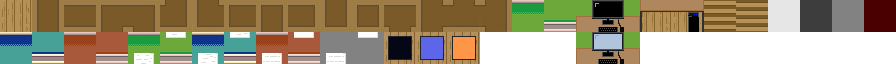
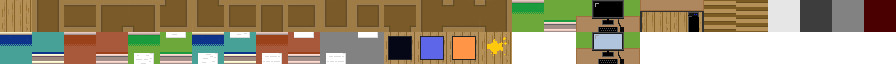
36

Changed region(s): [[0.5312, 0.5, 0.5938, 1.0]]

diff --git a/game/app/src/main/java/game/main_panel/CCharacter.java b/game/app/src/main/java/game/main_panel/CCharacter.java
@@ -15,12 +15,14 @@ import game.logic.Game_CLock;
 import game.logic.Game_states;
 import game.logic.Message;
 import game.logic.Puzzle;
+import game.logic.TelePort;
 import game.panel.Inventory_paint;
 import game.panel.Menu_paint;
 import game.panel.Message_paint;
 import game.panel.PC_paint;
 import game.panel.Pose_paint;
 import game.panel.Talk_paint;
+import game.panel.TelePort_paint;
 import game.panel.sub_panel.Debug_paint;
 import game.util.FontUtil;
 import game.util.FormatUtil;
@@ -41,15 +43,17 @@ public class CCharacter extends JPanel implements KeyListener,Runnable{
 
     private Game_CLock clock;
     Font font;
-    Maps maps = new Maps();
-    Talk_paint tp = new Talk_paint();
-    Pose_paint pp = new Pose_paint();
-    PC_paint pcp = new PC_paint();
-    Menu_paint mp = new Menu_paint();
-    Inventory_paint ip = new Inventory_paint();
-    Debug_paint dp = new Debug_paint();
-    Message_paint mep = new Message_paint(); 
-    Puzzle puzzle1 = new Puzzle();
+    Maps maps;
+    Talk_paint tp;
+    Pose_paint pp;
+    PC_paint pcp;
+    Menu_paint mp;
+    Inventory_paint ip;
+    Debug_paint dp;
+    Message_paint mep;
+    TelePort_paint tepp;
+    Puzzle puzzle1;
+    TelePort tep;
     public CCharacter(int x, int y, int map_number,Long play_time, LocalDateTime clock ,boolean prologue,boolean escaped) {
         this.x = x;
         this.y = y;
@@ -59,13 +63,22 @@ public class CCharacter extends JPanel implements KeyListener,Runnable{
         this.clock = new Game_CLock(clock,play_time);
         Charactor_walk char_walk = new Charactor_walk(); 
         char_walk.start();
+        tep = new TelePort();
 
 
         mapnum = map_number;
-
-
-        maps.loadMap(map_number,escaped);
+        maps = new Maps();
+        maps.loadMap(map_number,escaped,tep);
+        tp = new Talk_paint();
+        pcp = new PC_paint();
+        mp = new Menu_paint();
+        ip = new Inventory_paint();
+        dp = new Debug_paint();
+        mep = new Message_paint();
+        pp = new Pose_paint();
+        tepp = new TelePort_paint();
         FontUtil fl = new FontUtil();
+        puzzle1 = new Puzzle();
         font = fl.setFontSize_Mplus1Code(20f);
         Thread th = new Thread(this);
         th.start();
@@ -112,6 +125,8 @@ public class CCharacter extends JPanel implements KeyListener,Runnable{
             tp.paint_message(g);
         } else if((Game_states.getControll_state() & GameUtil.MESSAGE) == GameUtil.MESSAGE){
             mep.paint_message(g);
+        } else if((Game_states.getControll_state() & GameUtil.TELEP) == GameUtil.TELEP){
+            tepp.paint_teleport(g);
         }
         if(prologue) repaint();
     }
@@ -119,7 +134,7 @@ public class CCharacter extends JPanel implements KeyListener,Runnable{
         if(x < 0 || x >= GameUtil.MAP_X_LEN) return false;
         if(y < 0 || y >= GameUtil.MAP_Y_LEN) return false;
         int tmp = hit_tile(x, y);
-        if(tmp == 102 || tmp == 103 || tmp == 104 || tmp == 105) return true;
+        if(tmp >= 102 && tmp <= 106) return true;
         if(tmp >= 5) return false;
         return true;
     }
@@ -225,6 +240,9 @@ public class CCharacter extends JPanel implements KeyListener,Runnable{
             } else {
                 if(key == KeyEvent.VK_0) Game_states.updateControll_state(Game_states.getControll_state()+GameUtil.INVENTORY);
             }
+            if(key == KeyEvent.VK_T) {
+                Game_states.updateControll_state((Game_states.getControll_state() & ~GameUtil.PLAY)+GameUtil.TELEP);
+            }
             if(key == KeyEvent.VK_E)       speed = GameUtil.DASH;
             if((Game_states.getControll_state() & GameUtil.ITEM_DELETE) != GameUtil.ITEM_DELETE) {
                 if(key == KeyEvent.VK_LEFT)    dire = 1;
@@ -266,9 +284,11 @@ public class CCharacter extends JPanel implements KeyListener,Runnable{
             mep.controll(key,0,0,hit_tile);
         } else if((Game_states.getControll_state() & GameUtil.PC) == GameUtil.PC) {
             pcp.controll(key,Game_states.getInventory(ip.getInventoryIndex()));
+        }else if((Game_states.getControll_state() & GameUtil.TELEP) == GameUtil.TELEP) {
+            tepp.controll(key);
         }
         if(key == KeyEvent.VK_P) {
-            maps.loadMap(mapnum,true);
+            maps.loadMap(mapnum,true,tep);
         }
         repaint();
     }

diff --git a/game/app/src/main/java/game/main_panel/Maps.java b/game/app/src/main/java/game/main_panel/Maps.java
@@ -9,6 +9,7 @@ import java.io.FileReader;
 import java.io.IOException;
 
 import game.logic.Game_states;
+import game.logic.TelePort;
 import game.util.GameUtil;
 
 public class Maps {
@@ -84,21 +85,23 @@ private String[] map_list = {"/map0.csv",
     private int color_delta = 0;
     public Maps() {}
 
-    public void loadMap(int index,boolean escaped) {
+    public void loadMap(int index,boolean escaped,TelePort tep) {
         active_map_num = index;
         map = new int [map_list.length][GameUtil.MAP_Y_LEN][GameUtil.MAP_X_LEN];
         for(int i = 0; i < map.length;i++) {
-            map[i] = mapread(map[i],i);
+            map[i] = mapread(map[i],i,tep);
         }
         if(escaped) put_escaped_init();
     }
-    private int[][] mapread(int map[][],int index) {
+    private int[][] mapread(int map[][],int index,TelePort tep) {
         try (BufferedReader br = new BufferedReader(new FileReader(mapPathBuilder(Game_states.getMapDataPath(),index)))) {
             for(int i = 0; i < map.length;i++) {
                 String data = br.readLine();
                 String split_data[] = data.split(",");
                 for(int j = 0; j < map[i].length;j++) {
                     map[i][j] = Integer.parseInt(split_data[j]);
+                    //セーブデータ項目ににタグ名を追加。
+                    if(map[i][j] == 106) tep.markTeleportCoords(index, j, i,"");
                 }
             }
         } catch (IOException e) {
@@ -147,6 +150,7 @@ private String[] map_list = {"/map0.csv",
                     case 103: x2 = 416;y2 = 32;  break;
                     case 104: x2 = 384;y2 = 32;  break;
                     case 105: x2 = 448;y2 = 32;  break;
+                    case 106: x2 = 480;y2 = 32;  break;
                     case 32: x2 = 128; y2 = 32;  break;//ここから壁の紙
                     case 33: x2 = 192; y2 = 32;  break;
                     case 34: x2 = 256; y2 = 32;  break; 

diff --git a/game/app/src/main/java/game/panel/TelePort_paint.java b/game/app/src/main/java/game/panel/TelePort_paint.java
@@ -1,0 +1,51 @@
+package game.panel;
+
+import java.awt.Color;
+import java.awt.Font;
+import java.awt.Graphics;
+import java.awt.event.KeyEvent;
+
+import game.logic.Game_states;
+import game.save_load.Save;
+import game.util.FontUtil;
+import game.util.GameUtil;
+
+public class TelePort_paint {
+    private int state = 0;
+    private int y = 0, v = 0;
+    public boolean item_check, enter;
+    Font font;
+    Save save;
+    Color black = new Color(0, 0, 0, 150);
+    Save_paint sp = new Save_paint();
+    public TelePort_paint() {
+        FontUtil fl = new FontUtil();
+        font = fl.setFontSize_Mplus1Code(20f);
+    }
+
+    public void paint_teleport(Graphics g) {
+        g.setColor(black);
+        g.fillRect(0, 0, GameUtil.PANEL_X, GameUtil.PANEL_Y);
+        g.setColor(Color.WHITE);
+        g.setFont(font);
+        g.drawString("TRAVEL", 40, 50);
+        g.setColor(Color.WHITE);
+        g.fillRect(250, 65+y, 250, 2);
+        for(int i = 0;i < 8; i++) {
+            g.drawString(i+"", 250, 50+(i*50));
+        }
+    }
+    public void controll(int key) {
+        if(key == KeyEvent.VK_T) {
+            Game_states.updateControll_state((Game_states.getControll_state()+GameUtil.PLAY) & ~GameUtil.TELEP);
+            state_init();
+        }
+        if(key == KeyEvent.VK_ENTER) {
+            state++;
+        }
+    }
+    private void state_init() {
+        state = 0;
+        v = 0;
+    }
+}

diff --git a/game/app/src/main/java/game/logic/TelePort.java b/game/app/src/main/java/game/logic/TelePort.java
@@ -1,0 +1,27 @@
+package game.logic;
+
+import java.util.ArrayList;
+import java.util.List;
+
+public class TelePort {
+    private int coords[] = new int[3];
+    private List<int[]> toTeleportList = new ArrayList<>();
+    private List<String> list_tag_name = new ArrayList<>();
+    public void markTeleportCoords(int map_num, int x, int y, String tag) {
+        coords[0] = map_num;
+        coords[1] = x;
+        coords[2] = y;
+        toTeleportList.add(coords);
+        list_tag_name.add(tag);
+    }
+    public void removeTeleportCoords(int index) {
+        toTeleportList.remove(index);
+        list_tag_name.remove(index);
+    }
+    public int[] getToTeleportCoords(int index) {
+        return toTeleportList.get(index);
+    }
+    public String getTagName(int index) {
+        return list_tag_name.get(index);
+    }
+}

diff --git a/game/app/src/main/java/game/util/GameUtil.java b/game/app/src/main/java/game/util/GameUtil.java
@@ -28,6 +28,7 @@ public class GameUtil {
     public static final int MESSAGE =    0b00100000000;
     public static final int GAME_EXIT =  0b01000000000;
     public static final int DEBUG =     0b010000000000;
+    public static final int TELEP =     0b100000000000;
     public static final int GAME_END =0b010000000000000000;
 
     public static final int MAX_X = 20000;
